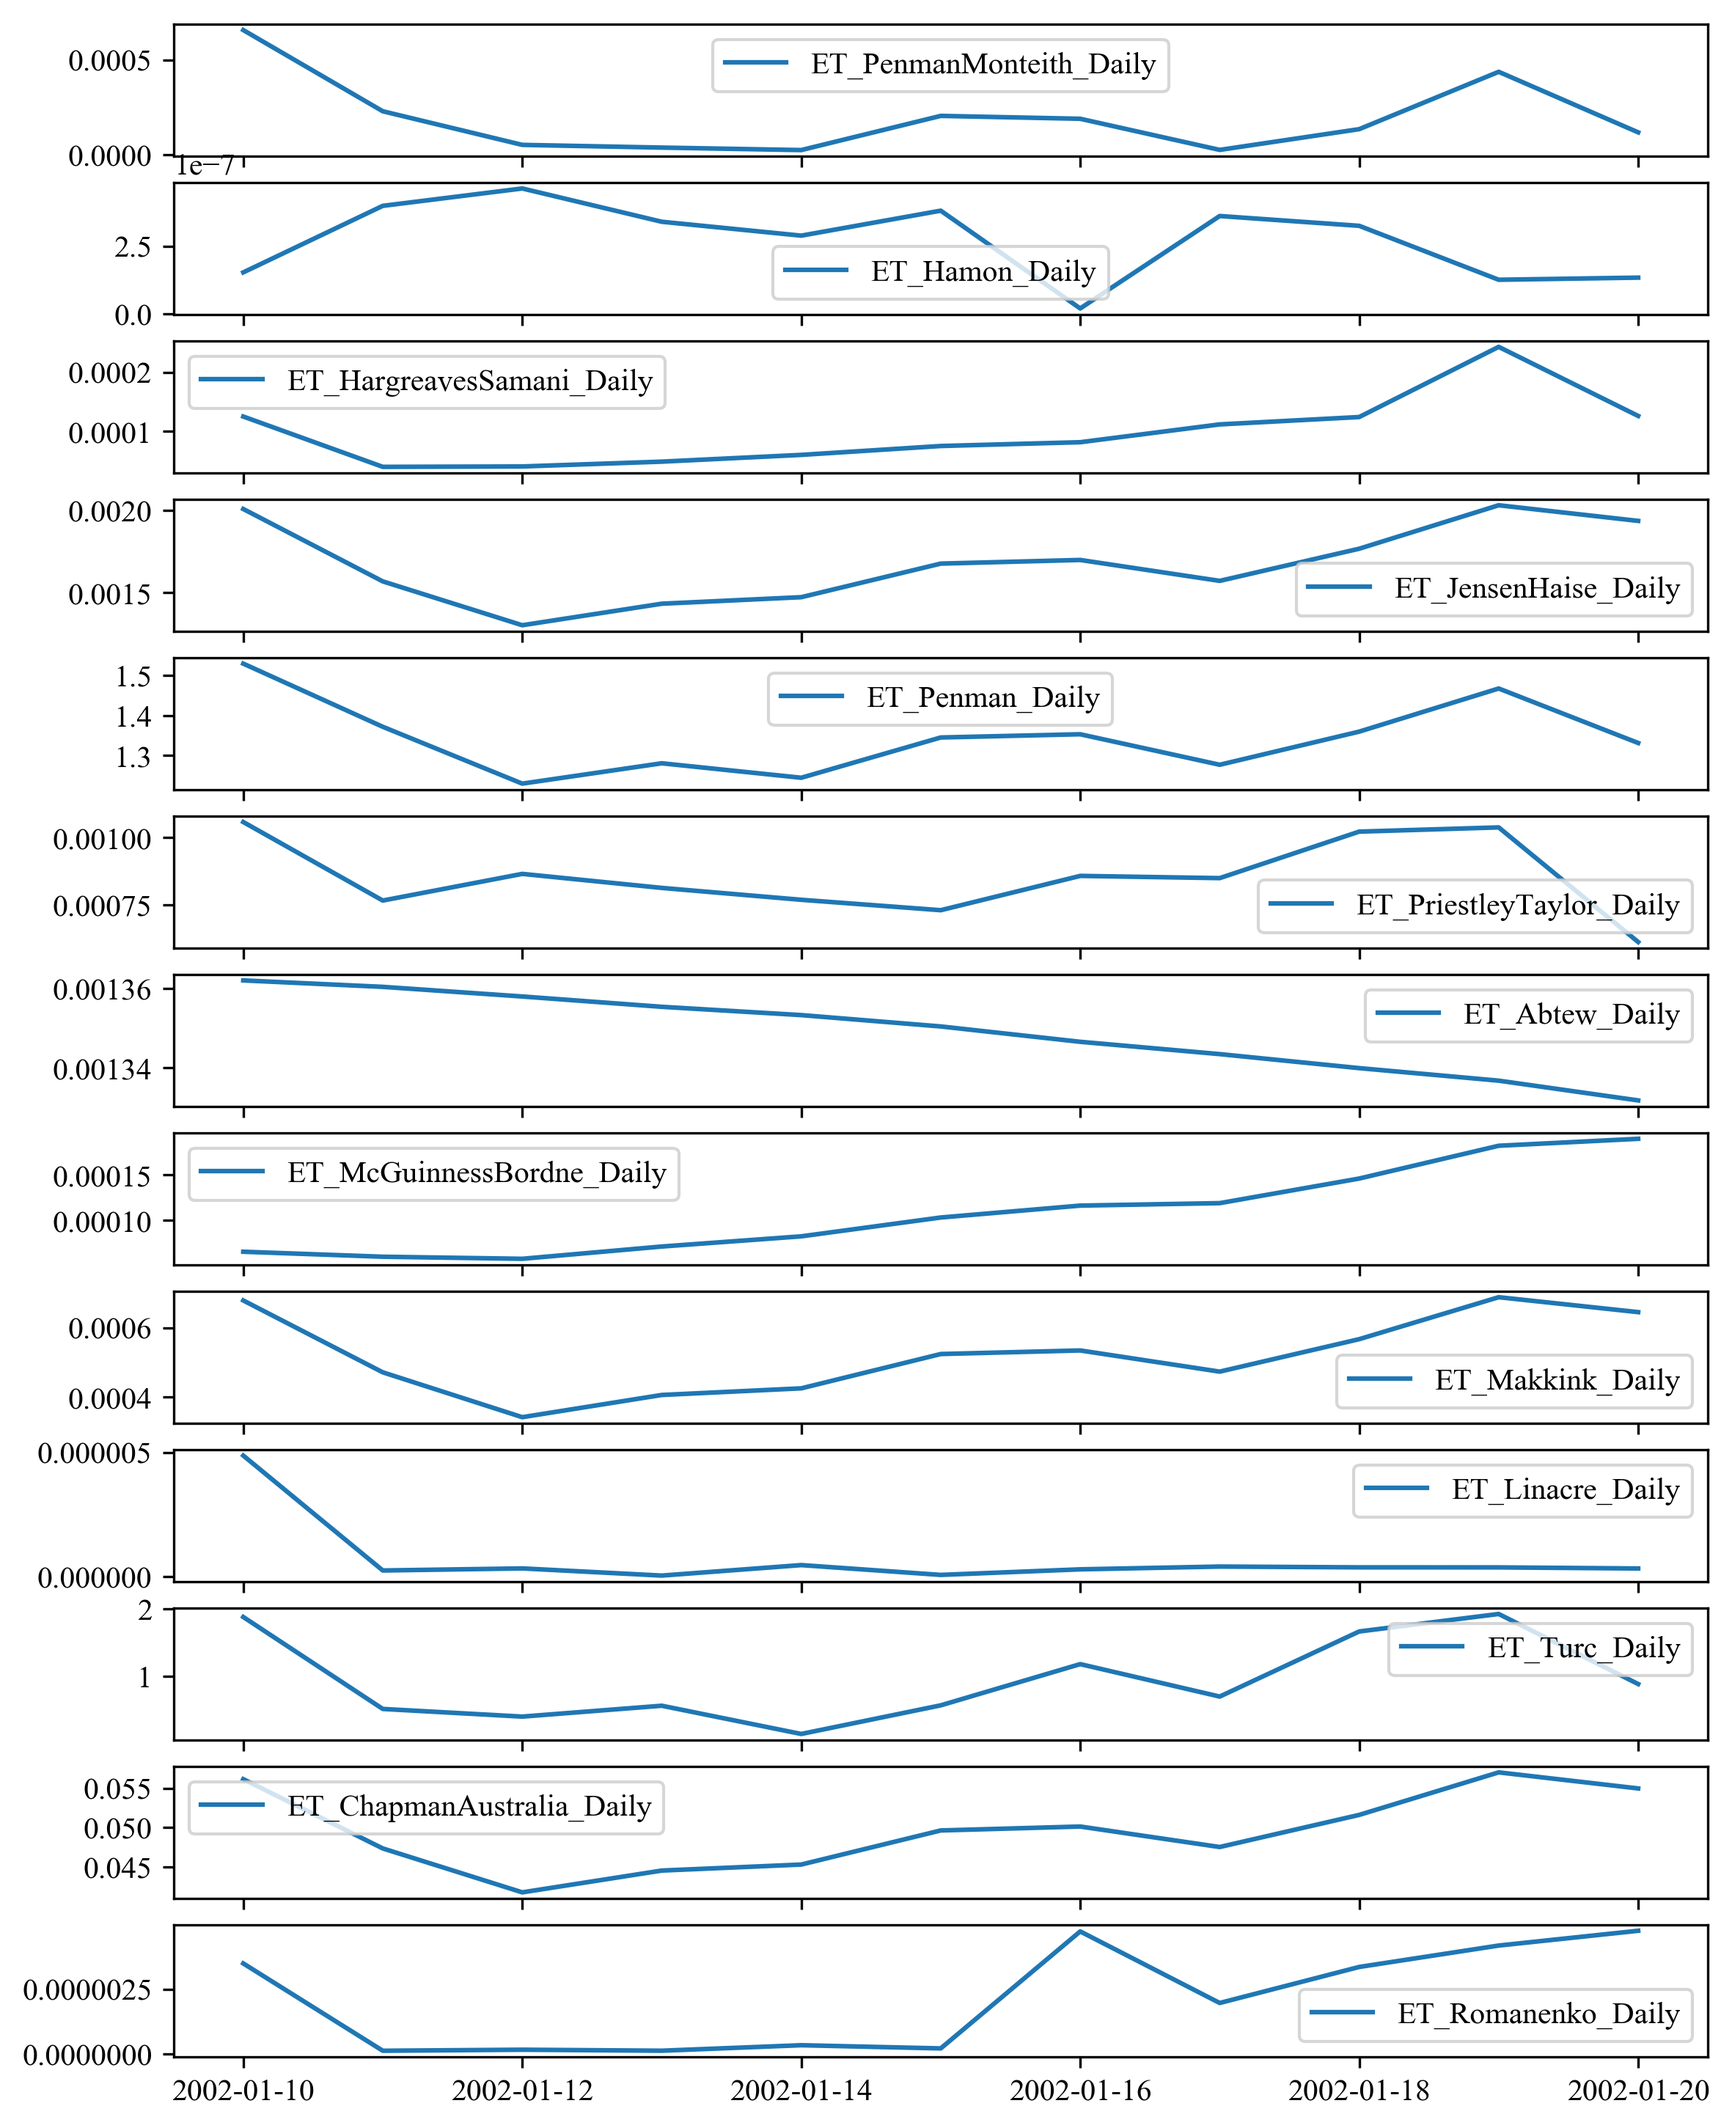
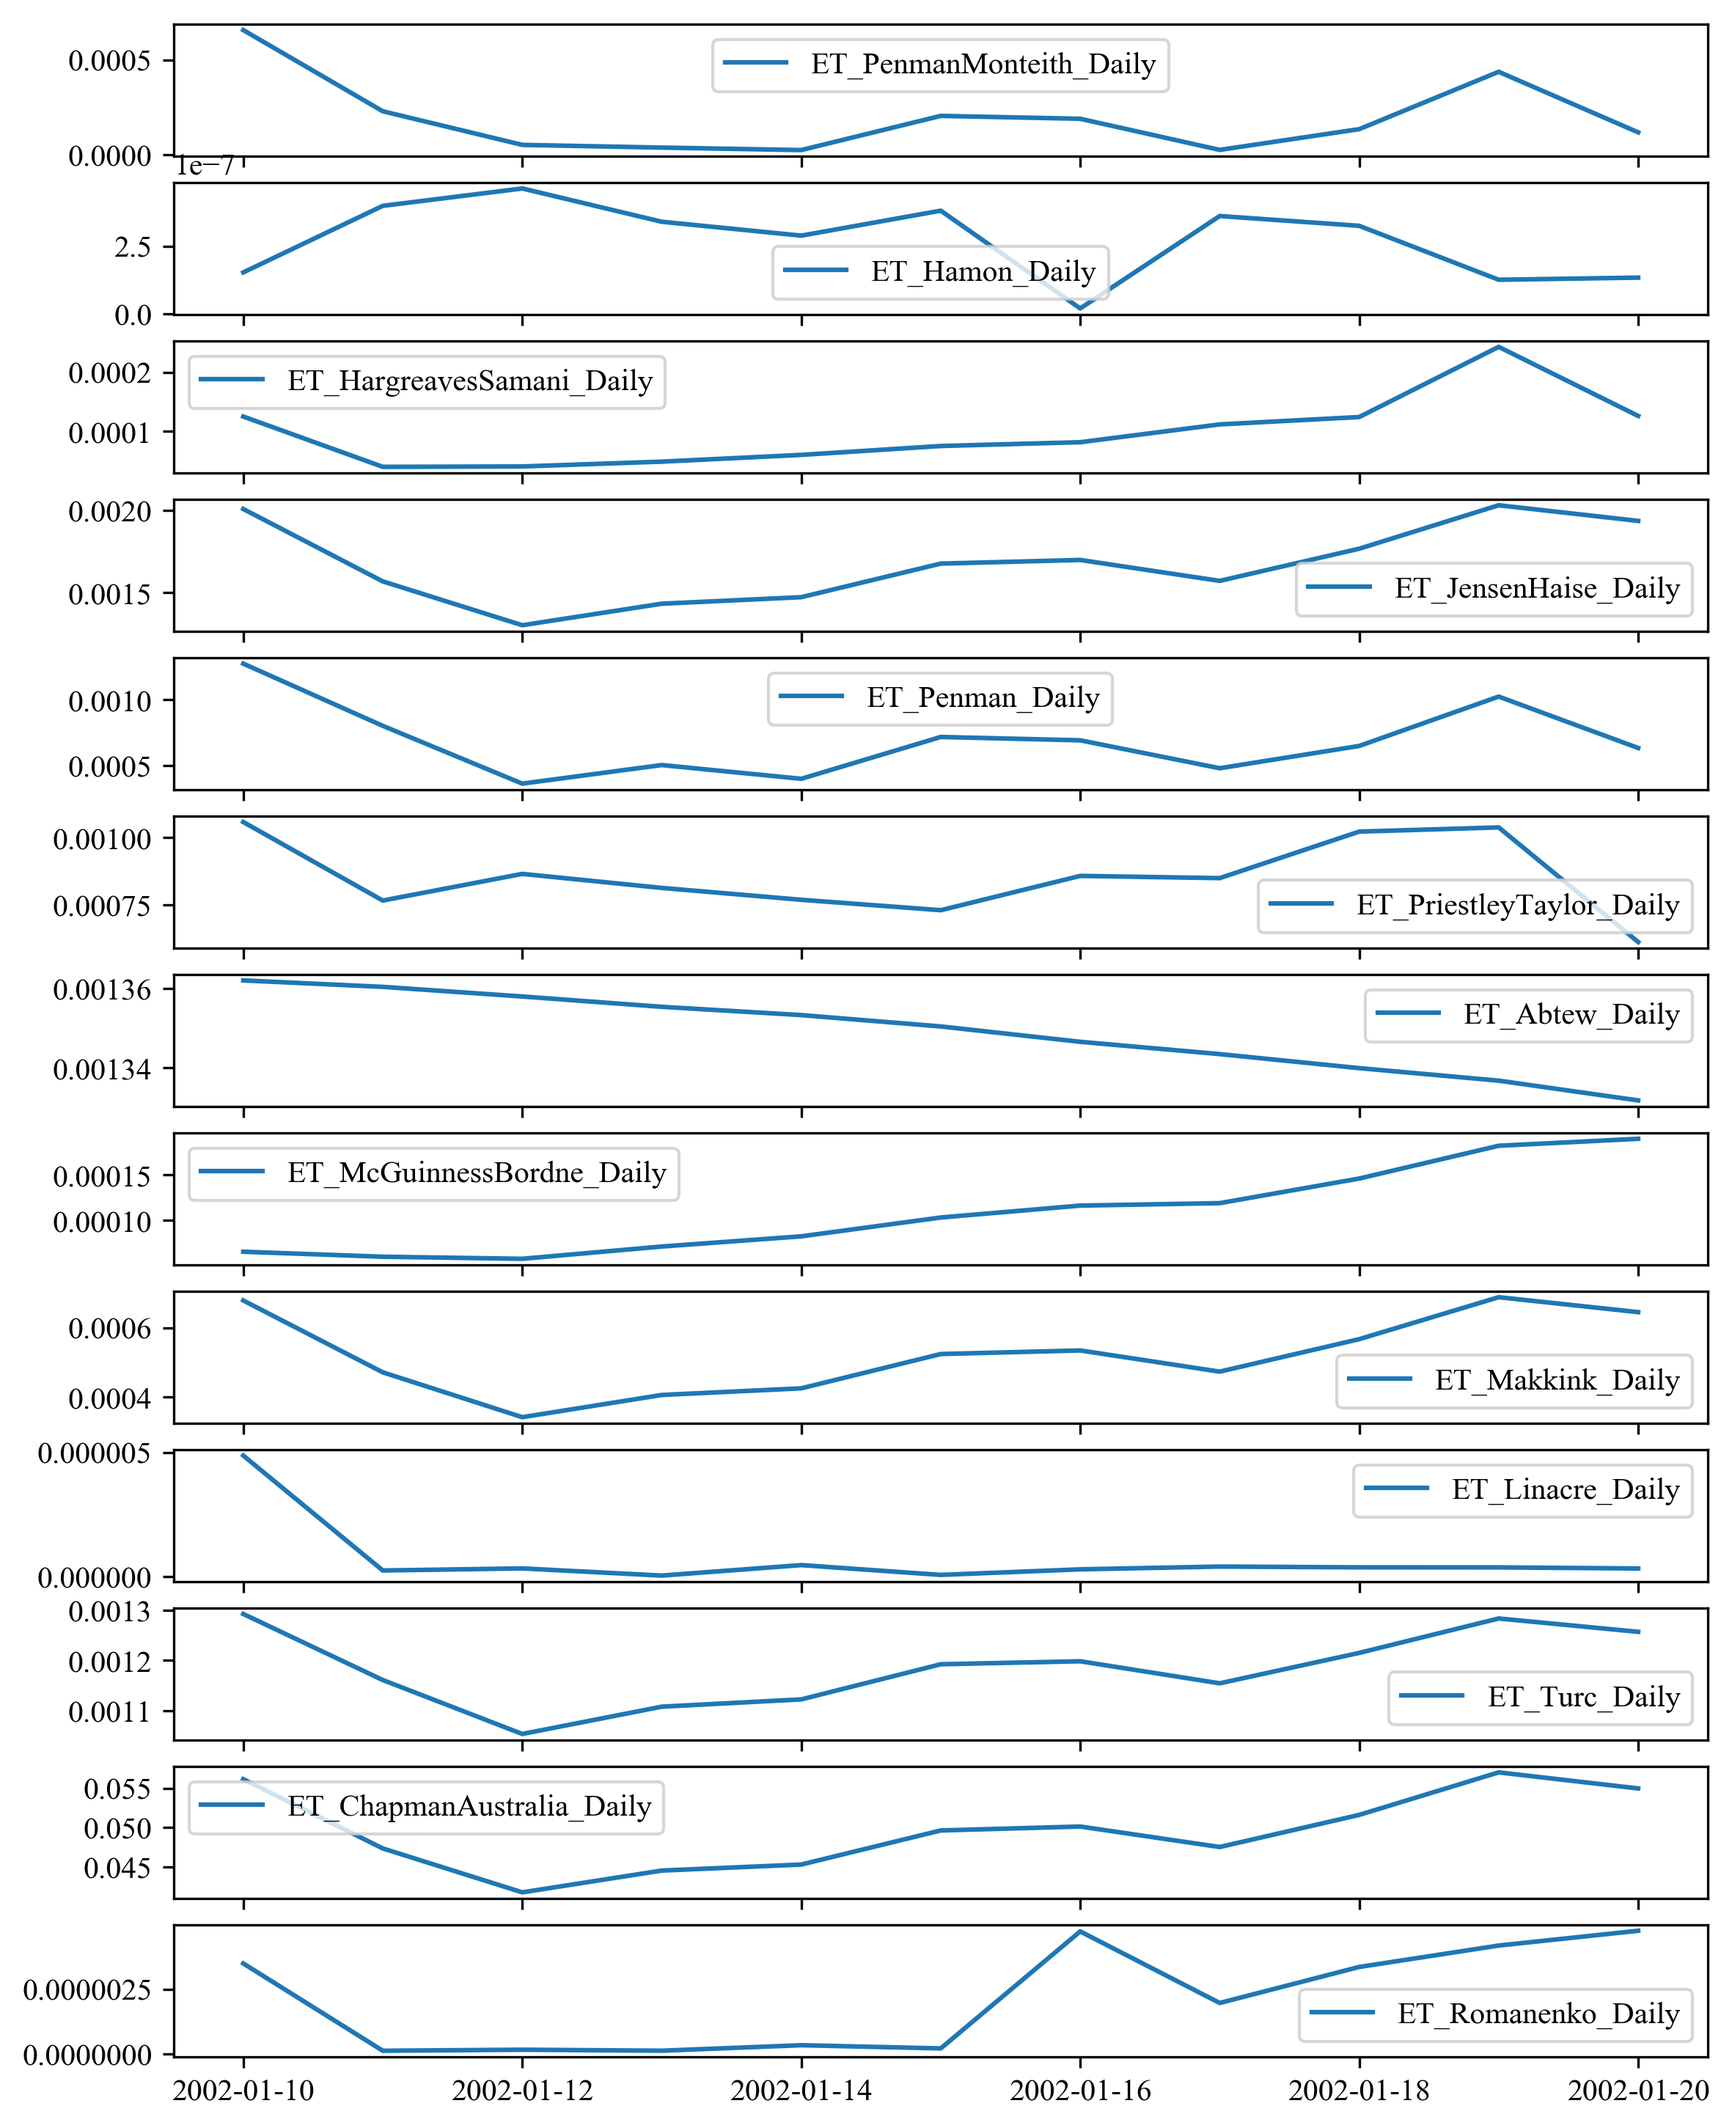
error reduction for Turc Daily

diff --git a/main.py b/main.py
@@ -327,7 +327,7 @@ class ReferenceET(Util):
 
 
 
-    def Turc(self):
+    def Turc(self, **kwargs):
         """
         using Turc 1961 formulation, originaly developed for southern France and Africa. Implemented as given (as eq 5)
          in [2]
@@ -345,15 +345,20 @@ class ReferenceET(Util):
         """
         self.check_constants(method='Turc')  # check that all constants are present
 
+        use_rh = False  # because while testing daily, rhmin and rhmax are given and rhmean is calculated by default
+        if 'use_rh' in kwargs:
+            use_rh = kwargs['use_rh']
+
         rs = self.rs()
         ta = self.input['temp'].values
         et = multiply(multiply(self.cons['turc_k'] , (add(multiply(23.88 , rs) , 50))) , divide(ta , (add(ta , 15))))
 
-        if 'rh_mean' in self.input.columns:
-            rh_mean = self.input['rh_mean'].values
-            eq1 = multiply(multiply(multiply(self.cons['turc_k'] , (add(multiply(23.88 , rs) , 50))) , divide(ta , (add(ta , 15)))) , (add(1 , divide((subtract(50 , rh_mean)) , 70))))
-            eq2 = multiply(multiply(self.cons['turc_k'] , (add(multiply(23.88 , rs) , 50))) , divide(ta , (add(ta , 15))))
-            et = np.where(rh_mean<50, eq1, eq2)
+        if use_rh:
+            if 'rh_mean' in self.input.columns:
+                rh_mean = self.input['rh_mean'].values
+                eq1 = multiply(multiply(multiply(self.cons['turc_k'] , (add(multiply(23.88 , rs) , 50))) , divide(ta , (add(ta , 15)))) , (add(1 , divide((subtract(50 , rh_mean)) , 70))))
+                eq2 = multiply(multiply(self.cons['turc_k'] , (add(multiply(23.88 , rs) , 50))) , divide(ta , (add(ta , 15))))
+                et = np.where(rh_mean<50, eq1, eq2)
 
         self.check_output_freq('Turc', et)
         return et
@@ -800,7 +805,7 @@ class ReferenceET(Util):
         return et
 
 
-    def Penman(self):
+    def Penman(self, **kwargs):
         """
         calculates pan evaporation from open water using formulation of [1] as mentioned (as eq 12) in [2]. if wind data
         is missing then equation 33 from [4] is used which does not require wind data.

diff --git a/test.py b/test.py
@@ -111,9 +111,9 @@ class  Daily_Tests(object):
         data.index = pd.to_datetime(data.index)
         data.index.freq = pd.infer_freq(data.index)
         self.data = data[st:en]
-        units={'tmin': 'centigrade', 'tmax':'centigrade', 'sunshine_hrs': 'hour', 'rh_min':'percent',
+        _units={'tmin': 'centigrade', 'tmax':'centigrade', 'sunshine_hrs': 'hour', 'rh_min':'percent',
        'rh_max':'percent','uz':'MeterPerSecond', 'tdew':'centigrade'}
-        self.etp = ReferenceET(self.data, units,
+        self.etp = ReferenceET(self.data, units=_units,
                   constants=self.constants)
 
         self.obs = self.get_observed_data()
